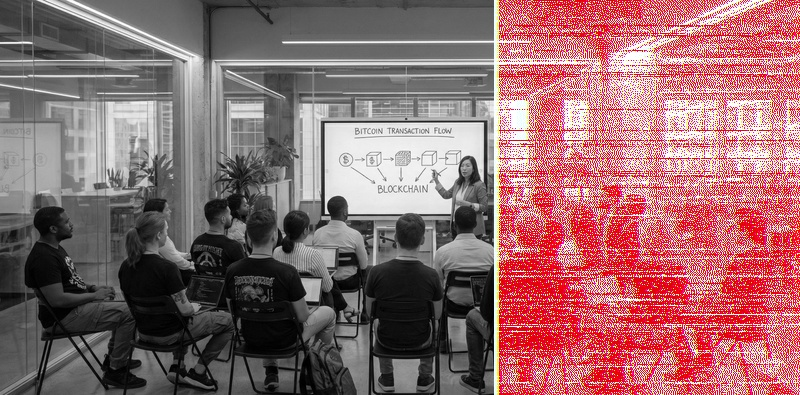
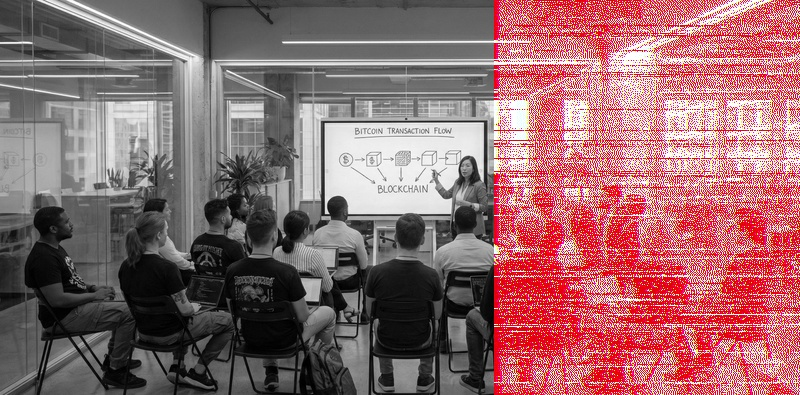
Fix glitch mode boundary artifacts and add glitch-fade example
**Bug Fix:**
- Fixed all dithering algorithms to preserve original pixel values outside the dithered region
- Previously, pixels outside the mask (density_mask == 0) were forced to white (255)
- This caused bright artifacts at boundaries when glitch row-swapping mixed regions
- Now pixels outside dithered regions keep their original grayscale values

**Affected algorithms:**
- floyd_steinberg_dither: Added check for density_mask == 0 before processing
- ordered_dither: Start with original image, only modify within dithered region
- atkinson_dither: Added check for density_mask == 0 before processing
- hal_dither: Preserve original values outside region, only dither within mask

**New Example:**
- example-glitch-fade.jpg: --glitch=0.2 --grayscale --fade=0.9 --jitter=10
- Creates extremely sparse, ghostly corruption effect
- 90% fade with low jitter for delicate translucent appearance
- All 19 e2e tests passing

diff --git a/main.py b/main.py
@@ -272,21 +272,35 @@ def ordered_dither(
     threshold_shift = threshold - 128.0 + threshold_offset
     effective_thresholds = (tiled_matrix * 255.0) + threshold_shift
 
-    # Determine which pixels are white (255)
-    result = np.zeros_like(image_array, dtype=np.uint8)
-    white_pixels = image_array > effective_thresholds
+    # Start with original image values
+    result = image_array.astype(np.uint8).copy()
+
+    # Create dithering mask (where to apply dithering)
+    dither_mask_pixels = np.ones((height, width), dtype=bool)
 
     if density_mask is not None:
-        # For ordered dither, density mask is harder to apply probabilistically per pixel
-        # without breaking the pattern.
-        # We can use a random check against density mask
+        # Mark pixels outside dithered region (density_mask == 0) to preserve
+        outside_region = density_mask == 0.0
+        dither_mask_pixels[outside_region] = False
+
+        # For pixels inside the region, apply probabilistic fade
         rng = np.random.default_rng(seed=seed)
         density_random = rng.uniform(0.0, 1.0, size=(height, width))
-        # If density check fails, force white (skip dithering/red)
+        # Skip pixels where random > density (fade effect)
         skip_mask = density_random > density_mask
-        white_pixels = white_pixels | skip_mask
+        # But only within the dithered region
+        skip_mask = skip_mask & ~outside_region
+    else:
+        skip_mask = np.zeros((height, width), dtype=bool)
 
-    result[white_pixels] = 255
+    # Determine which pixels should be white (255) vs black (0)
+    white_pixels = (image_array > effective_thresholds) & dither_mask_pixels
+    black_pixels = (image_array <= effective_thresholds) & dither_mask_pixels
+
+    # Apply dithering only where dither_mask_pixels is True
+    result[white_pixels | skip_mask] = 255
+    result[black_pixels & ~skip_mask] = 0
+
     return result
 
 
@@ -324,7 +338,11 @@ def atkinson_dither(
             adjusted_threshold = threshold + random_noise[y, x] + threshold_offset
 
             if density_mask is not None and density_random is not None:
-                if density_random[y, x] > density_mask[y, x]:
+                if density_mask[y, x] == 0.0:
+                    # Outside dithered region - preserve original pixel
+                    continue
+                elif density_random[y, x] > density_mask[y, x]:
+                    # Within dithered region but skipped for fade
                     img[y, x] = 255.0
                     continue
                 else:
@@ -391,17 +409,28 @@ def hal_dither(
     # Combine
     adjusted_thresholds = threshold + scanline_pattern + noise + threshold_offset
 
-    # Determine pixels
-    result = np.zeros_like(image_array, dtype=np.uint8)
+    # Start with original image values
+    result = image_array.astype(np.uint8).copy()
 
     # Density mask check
     should_dither = np.ones((height, width), dtype=bool)
     if density_mask is not None:
+        # Pixels outside dithered region (density_mask == 0) should not be modified
+        outside_region = density_mask == 0.0
+        # For pixels inside region, apply probabilistic fade
         density_random = rng.uniform(0.0, 1.0, size=(height, width))
-        should_dither = density_random <= density_mask
+        skip_fade = (density_random > density_mask) & ~outside_region
+        should_dither = ~outside_region & ~skip_fade
 
-    white_pixels = (img > adjusted_thresholds) | (~should_dither)
+        # Skipped pixels (fade effect) within region become white
+        result[skip_fade] = 255
+
+    # Apply dithering where should_dither is True
+    white_pixels = (img > adjusted_thresholds) & should_dither
+    black_pixels = (img <= adjusted_thresholds) & should_dither
+
     result[white_pixels] = 255
+    result[black_pixels] = 0
 
     return result
 
@@ -473,8 +502,11 @@ def floyd_steinberg_dither(
 
             # Check density mask - probabilistically skip pixels for fade effect
             if density_mask is not None and density_random is not None:
-                if density_random[y, x] > density_mask[y, x]:
-                    # Skip this pixel, force to white, don't propagate error
+                if density_mask[y, x] == 0.0:
+                    # Outside dithered region - preserve original pixel, don't modify
+                    continue
+                elif density_random[y, x] > density_mask[y, x]:
+                    # Within dithered region but skipped for fade - force to white
                     new_pixel = 255.0
                     img[y, x] = new_pixel
                     continue  # Skip error diffusion for this pixel
